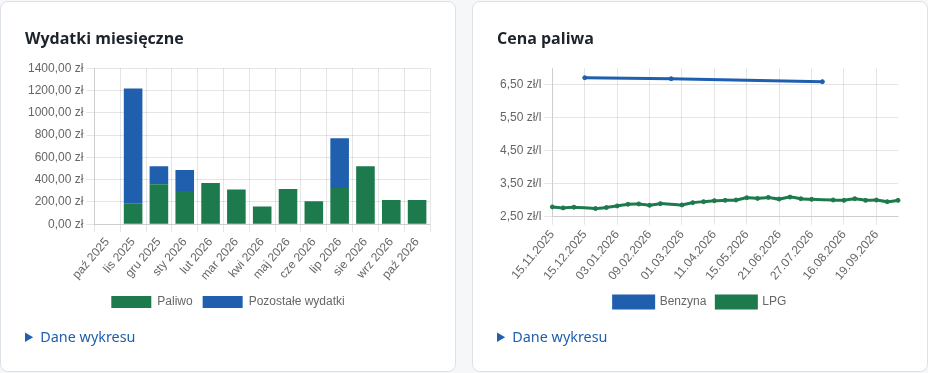
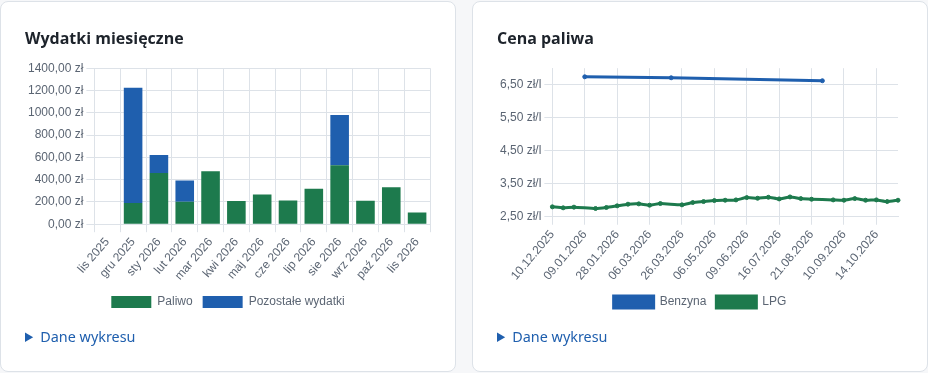
Refresh README screenshots and add a GIF of adding a refuel
All screenshots retaken from the demo account with the current UI.
New: year-by-year page, dark mode, and an animation of adding a refuel
from the dashboard on a phone-sized screen.

diff --git a/README.md b/README.md
@@ -14,10 +14,14 @@ uzasadnić — od modelu danych po kontrolę dostępu.
 | Historia auta | Koszty i spalanie (benzyna + LPG) |
 |---|---|
 | ![Oś czasu tankowań i wpisów serwisowych z filtrem](docs/screenshots/history.png) | ![Koszt całkowity, koszt na km, podział na kategorie, spalanie z tabelą odcinków](docs/screenshots/costs.png) |
-| **Wykresy** | **Walidacja przebiegu** |
-| ![Wydatki miesięczne i cena benzyny oraz LPG w czasie](docs/screenshots/charts.png) | ![Komunikat: późniejszy wpis ma mniejszy przebieg](docs/screenshots/validation.png) |
-| **Telefon (390 px)** | |
-| ![Podsumowanie kosztów na telefonie](docs/screenshots/mobile-costs.png) | |
+| **Wykresy** | **Rok po roku** |
+| ![Wydatki miesięczne i cena benzyny oraz LPG w czasie](docs/screenshots/charts.png) | ![Wydatki w kolejnych latach: wykres i tabela z dystansem, kosztem na km i spalaniem](docs/screenshots/years.png) |
+| **Walidacja przebiegu** | **Tryb ciemny** |
+| ![Komunikat: późniejszy wpis ma mniejszy przebieg](docs/screenshots/validation.png) | ![Strona kosztów w ciemnym motywie](docs/screenshots/dark.png) |
+| **Telefon (390 px)** | **Tankowanie z pulpitu na telefonie** |
+| ![Podsumowanie kosztów na telefonie](docs/screenshots/mobile-costs.png) | ![Animacja: „+ Tankowanie” na pulpicie, przebieg, litry i kwota, zapis i koszty auta](docs/screenshots/add-refuel.gif) |
+
+Zrzuty pochodzą z konta demo (`scripts/seed_demo.py`) — wszystkie dane są fikcyjne.
 
 ## Co potrafi
 
